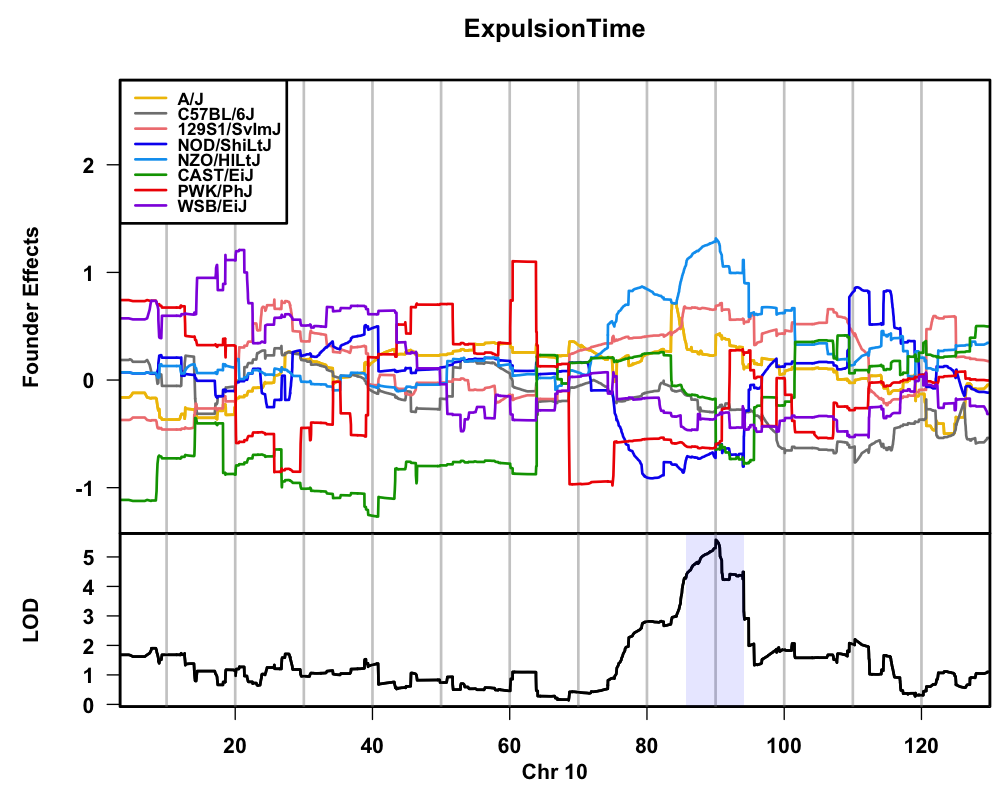
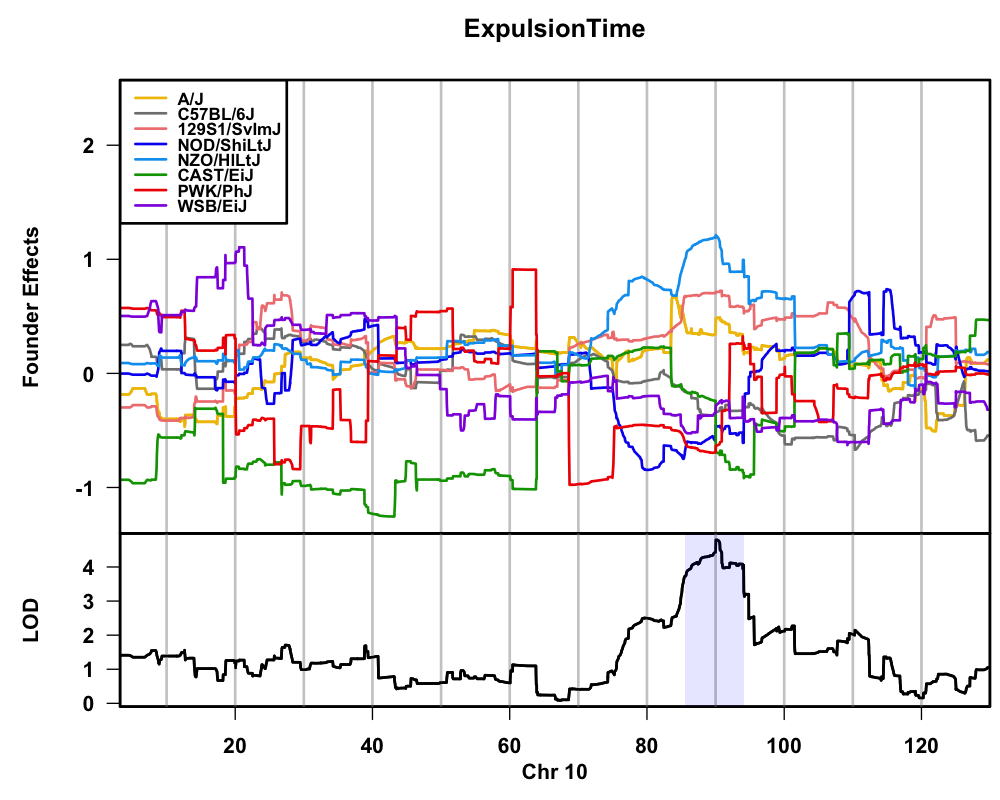
Sat Jan 26 21:43:06 PST 2019

diff --git a/docs/QTL/ExpulsionTime/ExpulsionTime.QTL.html b/docs/QTL/ExpulsionTime/ExpulsionTime.QTL.html
@@ -12,45 +12,45 @@
 <tr>
 <td bgcolor="#aaaaaa">Phenotype</td><td bgcolor="#aaaaaa">SNP.ID</td><td bgcolor="#aaaaaa">Chr</td><td bgcolor="#aaaaaa">Pos (Mb)</td><td bgcolor="#aaaaaa">Pos (cM)</td><td bgcolor="#aaaaaa">LOD</td><td bgcolor="#aaaaaa">p-value</td><td bgcolor="#aaaaaa">% Var</td><td bgcolor="#aaaaaa">Proximal (Mb)</td><td bgcolor="#aaaaaa">Distal (Mb)</td></tr>
 <tr>
-<td>ExpulsionTime</td><td>UNC1613285</td><td>1</td><td>127.756022</td><td>54.7</td><td>4.952</td><td>1</td><td>3976</td><td>92.848611</td><td>194.501286</td></tr>
+<td>ExpulsionTime</td><td>UNC010257353</td><td>1</td><td>127.719844</td><td>54.7</td><td>3.566</td><td>0</td><td>1195.2</td><td>37.461372</td><td>195.468351</td></tr>
 <tr>
-<td>ExpulsionTime</td><td>UNC4609915</td><td>2</td><td>181.74399</td><td>103.9064</td><td>3.988</td><td>1</td><td>3351</td><td>3.081519</td><td>181.743255</td></tr>
+<td>ExpulsionTime</td><td>UNC4609856</td><td>2</td><td>181.723478</td><td>103.8947</td><td>3.104</td><td>0</td><td>1048.9</td><td>3.081519</td><td>181.743255</td></tr>
 <tr>
-<td>ExpulsionTime</td><td>backupUNC030491543</td><td>3</td><td>87.526958</td><td>38.3991</td><td>3.882</td><td>1</td><td>3278</td><td>38.553806</td><td>159.598996</td></tr>
+<td>ExpulsionTime</td><td>UNC5663586</td><td>3</td><td>82.909885</td><td>37.012</td><td>3.334</td><td>0</td><td>1122.0</td><td>9.303388</td><td>159.598996</td></tr>
 <tr>
-<td>ExpulsionTime</td><td>UNC8529807</td><td>4</td><td>155.003045</td><td>86.7466</td><td>3.958</td><td>1</td><td>3330</td><td>9.184283</td><td>155.628841</td></tr>
+<td>ExpulsionTime</td><td>backupUNC040383342</td><td>4</td><td>154.968847</td><td>86.5898</td><td>3.513</td><td>0</td><td>1178.7</td><td>3.49706</td><td>155.628841</td></tr>
 <tr>
-<td>ExpulsionTime</td><td>UNC9200583</td><td>5</td><td>53.944635</td><td>29.3635</td><td>3.360</td><td>1</td><td>2909</td><td>3.094759</td><td>152.53696</td></tr>
+<td>ExpulsionTime</td><td>UNC9200583</td><td>5</td><td>53.944635</td><td>29.3635</td><td>3.167</td><td>0</td><td>1069.1</td><td>3.094759</td><td>152.53696</td></tr>
 <tr>
-<td>ExpulsionTime</td><td>UNC10994961</td><td>6</td><td>45.303422</td><td>21.81</td><td>4.202</td><td>1</td><td>3495</td><td>31.629458</td><td>139.78749</td></tr>
+<td>ExpulsionTime</td><td>UNC10994961</td><td>6</td><td>45.303422</td><td>21.81</td><td>3.599</td><td>0</td><td>1205.7</td><td>4.074793</td><td>149.515764</td></tr>
 <tr>
-<td>ExpulsionTime</td><td>UNC12620935</td><td>7</td><td>36.585144</td><td>21.5971</td><td>4.979</td><td>1</td><td>3992</td><td>28.642122</td><td>149.5122</td></tr>
+<td>ExpulsionTime</td><td>UNC12620935</td><td>7</td><td>36.585144</td><td>21.5971</td><td>4.084</td><td>0</td><td>1356.7</td><td>3.130432</td><td>151.58379</td></tr>
 <tr>
-<td>ExpulsionTime</td><td>UNC14124729</td><td>8</td><td>9.026072</td><td>3.772</td><td>3.489</td><td>1</td><td>3003</td><td>3.211459</td><td>131.721448</td></tr>
+<td>ExpulsionTime</td><td>UNC14124729</td><td>8</td><td>9.026072</td><td>3.772</td><td>2.993</td><td>0</td><td>1013.4</td><td>3.211459</td><td>131.721448</td></tr>
 <tr>
-<td>ExpulsionTime</td><td>UNC090309084</td><td>9</td><td>12.103627</td><td>2.7293</td><td>4.190</td><td>1</td><td>3487</td><td>3.369866</td><td>116.076662</td></tr>
+<td>ExpulsionTime</td><td>UNC16207097</td><td>9</td><td>39.523629</td><td>20.98</td><td>3.448</td><td>0</td><td>1158.3</td><td>3.369866</td><td>122.925933</td></tr>
 <tr>
-<td>ExpulsionTime</td><td>UNC18415706</td><td>10</td><td>90.037668</td><td>45.3088</td><td>5.583</td><td>0.875</td><td>4352</td><td>85.682283</td><td>94.1173</td></tr>
+<td>ExpulsionTime</td><td>UNC18416067</td><td>10</td><td>90.069407</td><td>45.3213</td><td>4.799</td><td>0</td><td>1574.4</td><td>85.530691</td><td>94.1173</td></tr>
 <tr>
-<td>ExpulsionTime</td><td>UNC19203716</td><td>11</td><td>19.54505</td><td>12.0011</td><td>5.702</td><td>0.875</td><td>4421</td><td>3.163871</td><td>121.83868</td></tr>
+<td>ExpulsionTime</td><td>UNC19212888</td><td>11</td><td>20.124853</td><td>12.9214</td><td>4.425</td><td>0</td><td>1461.3</td><td>3.163871</td><td>121.83868</td></tr>
 <tr>
-<td>ExpulsionTime</td><td>JAX00341055</td><td>12</td><td>90.866744</td><td>43.6643</td><td>3.265</td><td>1</td><td>2840</td><td>13.44327</td><td>121.255904</td></tr>
+<td>ExpulsionTime</td><td>JAX00340893</td><td>12</td><td>90.169915</td><td>43.1782</td><td>2.945</td><td>0</td><td> 997.9</td><td>11.091797</td><td>121.255904</td></tr>
 <tr>
-<td>ExpulsionTime</td><td>UNC23139260</td><td>13</td><td>96.324744</td><td>50.1038</td><td>5.239</td><td>1</td><td>4150</td><td>43.299339</td><td>112.307181</td></tr>
+<td>ExpulsionTime</td><td>UNC23139260</td><td>13</td><td>96.324744</td><td>50.1038</td><td>4.110</td><td>0</td><td>1364.6</td><td>3.006383</td><td>112.367447</td></tr>
 <tr>
-<td>ExpulsionTime</td><td>UNC24745708</td><td>14</td><td>111.077293</td><td>57.203</td><td>5.409</td><td>0.875</td><td>4251</td><td>65.837612</td><td>113.154681</td></tr>
+<td>ExpulsionTime</td><td>UNC24745708</td><td>14</td><td>111.077293</td><td>57.203</td><td>4.561</td><td>0</td><td>1502.6</td><td>65.687548</td><td>117.414847</td></tr>
 <tr>
-<td>ExpulsionTime</td><td>UNC25444901</td><td>15</td><td>41.454707</td><td>16.3016</td><td>2.811</td><td>1</td><td>2500</td><td>5.778288</td><td>103.484512</td></tr>
+<td>ExpulsionTime</td><td>UNC25741372</td><td>15</td><td>63.502922</td><td>27.531</td><td>2.278</td><td>0</td><td> 780.9</td><td>5.778288</td><td>103.484512</td></tr>
 <tr>
-<td>ExpulsionTime</td><td>UNC27377543</td><td>16</td><td>90.556676</td><td>51.709</td><td>3.636</td><td>1</td><td>3107</td><td>3.082728</td><td>98.317304</td></tr>
+<td>ExpulsionTime</td><td>UNC27377543</td><td>16</td><td>90.556676</td><td>51.709</td><td>3.298</td><td>0</td><td>1110.8</td><td>3.082728</td><td>98.317304</td></tr>
 <tr>
-<td>ExpulsionTime</td><td>UNC28628107</td><td>17</td><td>93.778452</td><td>60.689</td><td>3.028</td><td>1</td><td>2665</td><td>3.264958</td><td>95.269048</td></tr>
+<td>ExpulsionTime</td><td>UNC28628451</td><td>17</td><td>93.806323</td><td>60.689</td><td>2.836</td><td>0</td><td> 962.8</td><td>3.264958</td><td>95.269048</td></tr>
 <tr>
-<td>ExpulsionTime</td><td>UNC29541133</td><td>18</td><td>70.678878</td><td>44.4879</td><td>2.451</td><td>1</td><td>2218</td><td>3.235757</td><td>90.764386</td></tr>
+<td>ExpulsionTime</td><td>UNC29541133</td><td>18</td><td>70.678878</td><td>44.4879</td><td>2.118</td><td>0</td><td> 728.2</td><td>3.235757</td><td>90.764386</td></tr>
 <tr>
-<td>ExpulsionTime</td><td>JAX00482022</td><td>19</td><td>61.337203</td><td>56.923</td><td>2.978</td><td>1</td><td>2627</td><td>3.151739</td><td>61.337203</td></tr>
+<td>ExpulsionTime</td><td>JAX00482022</td><td>19</td><td>61.337203</td><td>56.923</td><td>2.642</td><td>0</td><td> 900.2</td><td>3.151739</td><td>61.337203</td></tr>
 <tr>
-<td>ExpulsionTime</td><td>UNC31346472</td><td>X</td><td>131.499737</td><td>56.3377</td><td>4.991</td><td>1</td><td>4000</td><td>57.602074</td><td>137.073903</td></tr>
+<td>ExpulsionTime</td><td>UNC31346472</td><td>X</td><td>131.499737</td><td>56.3377</td><td>4.191</td><td>0</td><td>1389.5</td><td>5.661946</td><td>143.263896</td></tr>
 </table>
 <br/>
 <a href="ExpulsionTime.chr1.coef.png"><img border="0" src="ExpulsionTime.chr1.coef.png" alt="ExpulsionTime.chr1.coef.png"></img></a><br/>
@@ -74,5 +74,5 @@
 <a href="ExpulsionTime.chr19.coef.png"><img border="0" src="ExpulsionTime.chr19.coef.png" alt="ExpulsionTime.chr19.coef.png"></img></a><br/>
 <a href="ExpulsionTime.chrX.female.coef.png"><img border="0" src="ExpulsionTime.chrX.female.coef.png" alt="ExpulsionTime.chrX.female.coef.png"></img></a><br/>
 
-<br/><br/><font size="-2">(Page generated on Tue Jan 22 14:41:27 2019 by <a href="http://www.embl.de/~gpau/hwriter/index.html">hwriter</a> 1.3.2)</font><br/>
+<br/><br/><font size="-2">(Page generated on Sat Jan 26 21:42:14 2019 by <a href="http://www.embl.de/~gpau/hwriter/index.html">hwriter</a> 1.3.2)</font><br/>
 </body></html>

diff --git a/docs/QTL/IgEfoldchange/IgEfoldchange.QTL.html b/docs/QTL/IgEfoldchange/IgEfoldchange.QTL.html
@@ -1,0 +1,78 @@
+<!DOCTYPE html PUBLIC "-//W3C//DTD XHTML 1.0 Transitional//EN" "http://www.w3.org/TR/xhtml1/DTD/xhtml1-transitional.dtd">
+<html xmlns='http://www.w3.org/1999/xhtml' xml:lang='en' lang='en'><head>
+<meta http-equiv="Content-Type" content="text/html; charset=utf-8"></meta>
+<title>~/projects/ccmice/docs/QTL/IgEfoldchange/IgEfoldchange.QTL.html</title>
+
+
+
+</head>
+<body><h1>IgEfoldchange QTL</h1><br/>
+<a href="IgEfoldchangeQTL.png"><img border="0" src="IgEfoldchangeQTL.png" alt="IgEfoldchangeQTL.png"></img></a><br/>
+<table border="1">
+<tr>
+<td bgcolor="#aaaaaa">Phenotype</td><td bgcolor="#aaaaaa">SNP.ID</td><td bgcolor="#aaaaaa">Chr</td><td bgcolor="#aaaaaa">Pos (Mb)</td><td bgcolor="#aaaaaa">Pos (cM)</td><td bgcolor="#aaaaaa">LOD</td><td bgcolor="#aaaaaa">p-value</td><td bgcolor="#aaaaaa">% Var</td><td bgcolor="#aaaaaa">Proximal (Mb)</td><td bgcolor="#aaaaaa">Distal (Mb)</td></tr>
+<tr>
+<td>IgEfoldchange</td><td>backupUNC011478119</td><td>1</td><td>77.446685</td><td>39.6042</td><td>5.988</td><td>0</td><td>1924.6</td><td>77.39165</td><td>175.645757</td></tr>
+<tr>
+<td>IgEfoldchange</td><td>JAX00483606</td><td>2</td><td>12.697241</td><td>9.5407</td><td>2.805</td><td>0</td><td> 952.7</td><td>3.081519</td><td>172.900494</td></tr>
+<tr>
+<td>IgEfoldchange</td><td>UNC4954038</td><td>3</td><td>30.085171</td><td>13.0352</td><td>3.610</td><td>0</td><td>1209.2</td><td>16.030609</td><td>159.598996</td></tr>
+<tr>
+<td>IgEfoldchange</td><td>UNC8536325</td><td>4</td><td>155.422287</td><td>87.9103</td><td>3.498</td><td>0</td><td>1173.9</td><td>3.115502</td><td>155.628841</td></tr>
+<tr>
+<td>IgEfoldchange</td><td>JAX00135877</td><td>5</td><td>132.851937</td><td>72.1418</td><td>2.854</td><td>0</td><td> 968.5</td><td>3.583415</td><td>149.724396</td></tr>
+<tr>
+<td>IgEfoldchange</td><td>JAX00625189</td><td>6</td><td>125.896201</td><td>60.1204</td><td>3.008</td><td>0</td><td>1018.2</td><td>7.552282</td><td>148.456947</td></tr>
+<tr>
+<td>IgEfoldchange</td><td>UNC13702326</td><td>7</td><td>124.9752</td><td>63.442</td><td>7.521</td><td>0</td><td>2354.6</td><td>124.949116</td><td>126.123201</td></tr>
+<tr>
+<td>IgEfoldchange</td><td>UNC15290974</td><td>8</td><td>97.461444</td><td>47.0476</td><td>7.083</td><td>0</td><td>2234.1</td><td>97.44716</td><td>131.637974</td></tr>
+<tr>
+<td>IgEfoldchange</td><td>UNC16789943</td><td>9</td><td>85.353154</td><td>46.1261</td><td>3.105</td><td>0</td><td>1049.3</td><td>3.369866</td><td>124.067629</td></tr>
+<tr>
+<td>IgEfoldchange</td><td>backupUNC100361223</td><td>10</td><td>8.247056</td><td>2.6705</td><td>3.635</td><td>0</td><td>1217.0</td><td>3.211114</td><td>109.484027</td></tr>
+<tr>
+<td>IgEfoldchange</td><td>UNC19665523</td><td>11</td><td>55.240305</td><td>33.0605</td><td>4.079</td><td>0</td><td>1355.3</td><td>8.897016</td><td>121.827386</td></tr>
+<tr>
+<td>IgEfoldchange</td><td>JAX00037726</td><td>12</td><td>74.964673</td><td>31.8501</td><td>2.308</td><td>0</td><td> 790.8</td><td>3.382183</td><td>121.255904</td></tr>
+<tr>
+<td>IgEfoldchange</td><td>JAX00354524</td><td>13</td><td>34.462094</td><td>14.097</td><td>4.921</td><td>0</td><td>1611.2</td><td>31.27088</td><td>36.42716</td></tr>
+<tr>
+<td>IgEfoldchange</td><td>backupUNC140686121</td><td>14</td><td>10.004815</td><td>5.1818</td><td>4.283</td><td>0</td><td>1417.8</td><td>3.262706</td><td>20.889953</td></tr>
+<tr>
+<td>IgEfoldchange</td><td>UNC26238109</td><td>15</td><td>102.273175</td><td>57.5811</td><td>3.469</td><td>0</td><td>1164.7</td><td>30.111265</td><td>103.484512</td></tr>
+<tr>
+<td>IgEfoldchange</td><td>JAX00066367</td><td>16</td><td>10.062579</td><td>5.4314</td><td>4.588</td><td>0</td><td>1510.9</td><td>5.419649</td><td>90.233045</td></tr>
+<tr>
+<td>IgEfoldchange</td><td>UNC28234360</td><td>17</td><td>68.098105</td><td>38.8171</td><td>3.172</td><td>0</td><td>1070.7</td><td>27.493965</td><td>89.379612</td></tr>
+<tr>
+<td>IgEfoldchange</td><td>UNC28966337</td><td>18</td><td>30.04833</td><td>17.2183</td><td>7.206</td><td>0</td><td>2268.3</td><td>25.878016</td><td>30.24647</td></tr>
+<tr>
+<td>IgEfoldchange</td><td>UNC30208244</td><td>19</td><td>32.395554</td><td>26.9902</td><td>3.623</td><td>0</td><td>1213.3</td><td>3.151739</td><td>61.337203</td></tr>
+<tr>
+<td>IgEfoldchange</td><td>UNC31315609</td><td>X</td><td>126.688755</td><td>52.8768</td><td>4.088</td><td>0</td><td>1357.8</td><td>6.89709</td><td>137.073903</td></tr>
+</table>
+<br/>
+<a href="IgEfoldchange.chr1.coef.png"><img border="0" src="IgEfoldchange.chr1.coef.png" alt="IgEfoldchange.chr1.coef.png"></img></a><br/>
+<a href="IgEfoldchange.chr2.coef.png"><img border="0" src="IgEfoldchange.chr2.coef.png" alt="IgEfoldchange.chr2.coef.png"></img></a><br/>
+<a href="IgEfoldchange.chr3.coef.png"><img border="0" src="IgEfoldchange.chr3.coef.png" alt="IgEfoldchange.chr3.coef.png"></img></a><br/>
+<a href="IgEfoldchange.chr4.coef.png"><img border="0" src="IgEfoldchange.chr4.coef.png" alt="IgEfoldchange.chr4.coef.png"></img></a><br/>
+<a href="IgEfoldchange.chr5.coef.png"><img border="0" src="IgEfoldchange.chr5.coef.png" alt="IgEfoldchange.chr5.coef.png"></img></a><br/>
+<a href="IgEfoldchange.chr6.coef.png"><img border="0" src="IgEfoldchange.chr6.coef.png" alt="IgEfoldchange.chr6.coef.png"></img></a><br/>
+<a href="IgEfoldchange.chr7.coef.png"><img border="0" src="IgEfoldchange.chr7.coef.png" alt="IgEfoldchange.chr7.coef.png"></img></a><br/>
+<a href="IgEfoldchange.chr8.coef.png"><img border="0" src="IgEfoldchange.chr8.coef.png" alt="IgEfoldchange.chr8.coef.png"></img></a><br/>
+<a href="IgEfoldchange.chr9.coef.png"><img border="0" src="IgEfoldchange.chr9.coef.png" alt="IgEfoldchange.chr9.coef.png"></img></a><br/>
+<a href="IgEfoldchange.chr10.coef.png"><img border="0" src="IgEfoldchange.chr10.coef.png" alt="IgEfoldchange.chr10.coef.png"></img></a><br/>
+<a href="IgEfoldchange.chr11.coef.png"><img border="0" src="IgEfoldchange.chr11.coef.png" alt="IgEfoldchange.chr11.coef.png"></img></a><br/>
+<a href="IgEfoldchange.chr12.coef.png"><img border="0" src="IgEfoldchange.chr12.coef.png" alt="IgEfoldchange.chr12.coef.png"></img></a><br/>
+<a href="IgEfoldchange.chr13.coef.png"><img border="0" src="IgEfoldchange.chr13.coef.png" alt="IgEfoldchange.chr13.coef.png"></img></a><br/>
+<a href="IgEfoldchange.chr14.coef.png"><img border="0" src="IgEfoldchange.chr14.coef.png" alt="IgEfoldchange.chr14.coef.png"></img></a><br/>
+<a href="IgEfoldchange.chr15.coef.png"><img border="0" src="IgEfoldchange.chr15.coef.png" alt="IgEfoldchange.chr15.coef.png"></img></a><br/>
+<a href="IgEfoldchange.chr16.coef.png"><img border="0" src="IgEfoldchange.chr16.coef.png" alt="IgEfoldchange.chr16.coef.png"></img></a><br/>
+<a href="IgEfoldchange.chr17.coef.png"><img border="0" src="IgEfoldchange.chr17.coef.png" alt="IgEfoldchange.chr17.coef.png"></img></a><br/>
+<a href="IgEfoldchange.chr18.coef.png"><img border="0" src="IgEfoldchange.chr18.coef.png" alt="IgEfoldchange.chr18.coef.png"></img></a><br/>
+<a href="IgEfoldchange.chr19.coef.png"><img border="0" src="IgEfoldchange.chr19.coef.png" alt="IgEfoldchange.chr19.coef.png"></img></a><br/>
+<a href="IgEfoldchange.chrX.female.coef.png"><img border="0" src="IgEfoldchange.chrX.female.coef.png" alt="IgEfoldchange.chrX.female.coef.png"></img></a><br/>
+
+<br/><br/><font size="-2">(Page generated on Sat Jan 26 21:42:34 2019 by <a href="http://www.embl.de/~gpau/hwriter/index.html">hwriter</a> 1.3.2)</font><br/>
+</body></html>

diff --git a/docs/QTL/EarSwell/EarSwell.QTL.html b/docs/QTL/EarSwell/EarSwell.QTL.html
@@ -74,5 +74,5 @@
 <a href="EarSwell.chr19.coef.png"><img border="0" src="EarSwell.chr19.coef.png" alt="EarSwell.chr19.coef.png"></img></a><br/>
 <a href="EarSwell.chrX.female.coef.png"><img border="0" src="EarSwell.chrX.female.coef.png" alt="EarSwell.chrX.female.coef.png"></img></a><br/>
 
-<br/><br/><font size="-2">(Page generated on Fri Jan 25 17:40:48 2019 by <a href="http://www.embl.de/~gpau/hwriter/index.html">hwriter</a> 1.3.2)</font><br/>
+<br/><br/><font size="-2">(Page generated on Sat Jan 26 21:41:53 2019 by <a href="http://www.embl.de/~gpau/hwriter/index.html">hwriter</a> 1.3.2)</font><br/>
 </body></html>
